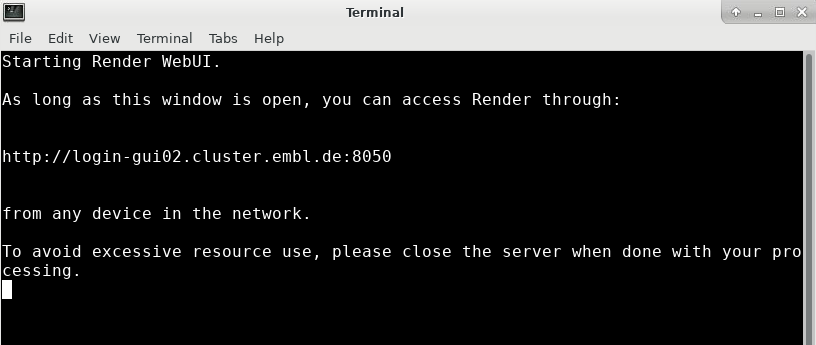
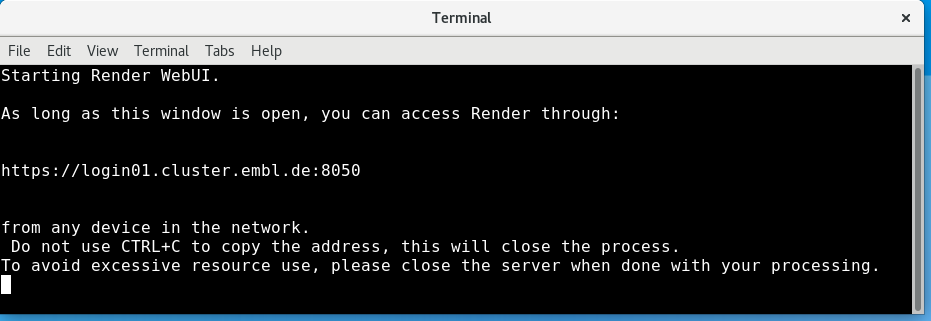
switch to XRDP

diff --git a/docs/x2go.md b/docs/x2go.md
@@ -5,25 +5,41 @@ This tutorial explains how to launch the Render WebUI for running computations.
 It makes use of the graphical login procedure for the EMBL cluster, described [here](https://wiki.embl.de/cluster/Env).
 
 
-## Setting up x2go
+## Setting up the remote Desktop
 
-Before you start, you need to install a client software to connect.
-Just download x2goclient (available for Windows, Linux and Mac from [here](https://wiki.x2go.org/doku.php/doc:installation:x2goclient), (find the installer in ```releases```) and configure your session as follows.
+The connection to a graphical login node of the EMBL cluster uses RDP (["Remote Desktop Protocol"](https://en.wikipedia.org/wiki/Remote_Desktop_Protocol)).
 
-When you first launch the program, you need to set up the connection. Click the white symbol in the top left corner to add a new connection.
+This is the built-in remote control in Microsoft Windows.
 
-![x2go](img/X2go.png "x2go")
+In order to use the connection from a Mac you need to install the client software from [here](https://apps.apple.com/app/microsoft-remote-desktop/id1295203466?mt=12).
+***
 
-Here, you should the following connection details with your user name:
+### MacOS 
 
-![x2go_connect](img/conn_01.png "x2go - connection details")
+To initially set up the connection, click the plus logo to add a new Desktop.
 
-If you want, you can also switch to the `Input/Output` tab to set up the display settings.
+![add remote Desktop](img/ms_add.png "Add remote Desktop")
 
-![x2go_disp](img/conn_disp.png "x2go - display settings")
+Provide the address `login01.cluster.embl.de` and optionally choose your desired display settings for the connection.
+
+![login remote Desktop](img/rdp_login01.png "Add remote Desktop")
+
+### Windows
+Open the software **Remote Desktop Connection**. Provide the address `login01.cluster.embl.de` and optionally choose your desired display settings for the connection.
+
+![connect remote Desktop](img/rdp_win.png "Connect remote Desktop")
 
 
-Once you have set up the connection, you can just launch it by double-clicking its box on the right side of the x2go main window. Put your password and you will get a graphical desktop on EMBL's cluster submission node.
+***
+
+Once you have set up the connection, you can just launch it by double-clicking its entry in the list of the Remote Desktop main window. Put your EMBL login and password, and you will get a graphical desktop on EMBL's cluster submission node.
+
+
+You can ignore the certificate warning that might show up.
+
+![RDP cert](img/rdp_cert.png "RDP certificate warning")
+
+
 
 ## Launching Render
 
@@ -42,52 +58,15 @@ Now, the desktop icon should be there.
 
 When you click the icon the following window appears:
 
-![render_terminal](img/render_terminal.png "x2go - display settings")
+![render_terminal](img/render_terminal.png "remote terminal")
 
-You can now connect to the we address shown with any browser.
+You can now connect to the web address shown with any browser. Be careful **not** to use `CTRL + C` for copying text as this key combination will terminate the server you've just started.
 
-To close the WebUI, just close that window.
+To close the WebUI and terminate the server, just close that window.
 
 ## Interrupting sessions
 
-When you run a long processing, there is no need to stay connected with x2go all the time. You can simply disconnect from the VPN and re-connect at any later time. The session will continue to run as it is.
+When you run a long processing, there is no need to stay connected remotely to the server all the time. You can simply disconnect from the VPN and re-connect at any later time. The session will continue to run as it is.
 
-To follow the formally correct procedure, you can also click the `Pause` button at the bottom of the x2go status frame for your running connection. This will disconnect but not end your session.
-
-![pause](img/x2go_pause.png "x2go - Pause")
-
-
-
-
-## Connection problems
-
-
-IT has upgraded the graphical login node for the cluster.
-Therefore one connection setting has to be modified.
-This only applies for machines where you have already used the X2go connection.
-
-In this case you will get a "Host key cerification failed" error after accepting the (new) host key.
-
-
-To fix this:
-
-MAC:
-
-- open a terminal
-- type and run:
-     open -a Textedit ~/.ssh/known_hosts
-- in this file, remove the line that starts with "login-gui.cluster.embl.de"
-- save the file
-
-
-Windows:
-- open a file explorer
-- go to (type into the address bar) %USERPROFILE%\ssh
-- open the file "known_hosts" with a text editor
-- in this file, remove the line that starts with "login-gui.cluster.embl.de"
-- save the file
-
-
-Now, when connecting, X2go will ask you to accept the (new) host key. Hit yes and the connection should open.
 
 ## Happy processing!
